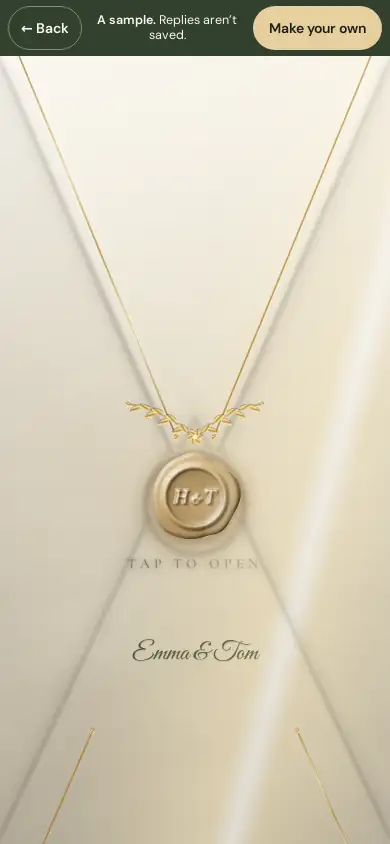
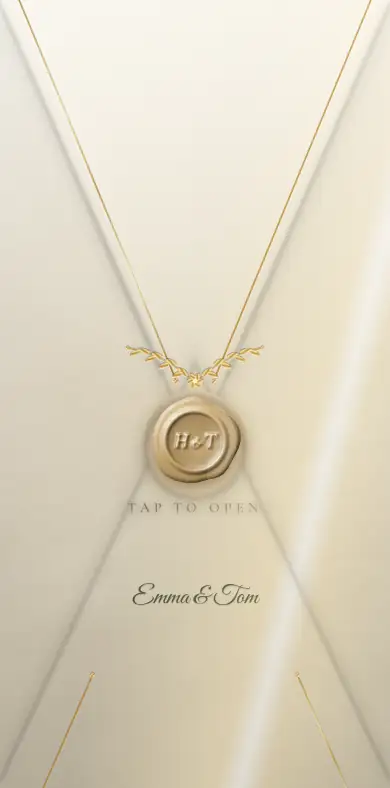
/demo's still sits below the sample bar (a full-screen picture doesn't count as the page's paint); re-cut with the readable Tap to open

diff --git a/apps/web/poster.js b/apps/web/poster.js
@@ -17,4 +17,6 @@ export const DEMO_POSTER_HEAD =
   '<style>@media (min-width: 600px){[data-demo-poster]{display:none}}</style>';
 
 /** Into #root, first: the still itself, full screen, under where the live envelope will draw. */
-export const DEMO_POSTER_ROOT = `<img data-demo-poster alt="" aria-hidden="true" src="${DEMO_POSTER_SRC}" width="390" height="844" fetchpriority="high" style="position:fixed;inset:0;width:100%;height:100%;object-fit:cover;object-position:top center;z-index:0">`;
+// Below the sample bar's slot, as the live invitation is: a picture filling the whole screen would be taken for a
+// background and not count as the page's paint.
+export const DEMO_POSTER_ROOT = `<img data-demo-poster alt="" aria-hidden="true" src="${DEMO_POSTER_SRC}" width="390" height="788" fetchpriority="high" style="position:fixed;left:0;right:0;bottom:0;top:calc(56px + env(safe-area-inset-top));width:100%;height:calc(100% - 56px - env(safe-area-inset-top));object-fit:cover;object-position:top center;z-index:0">`;
